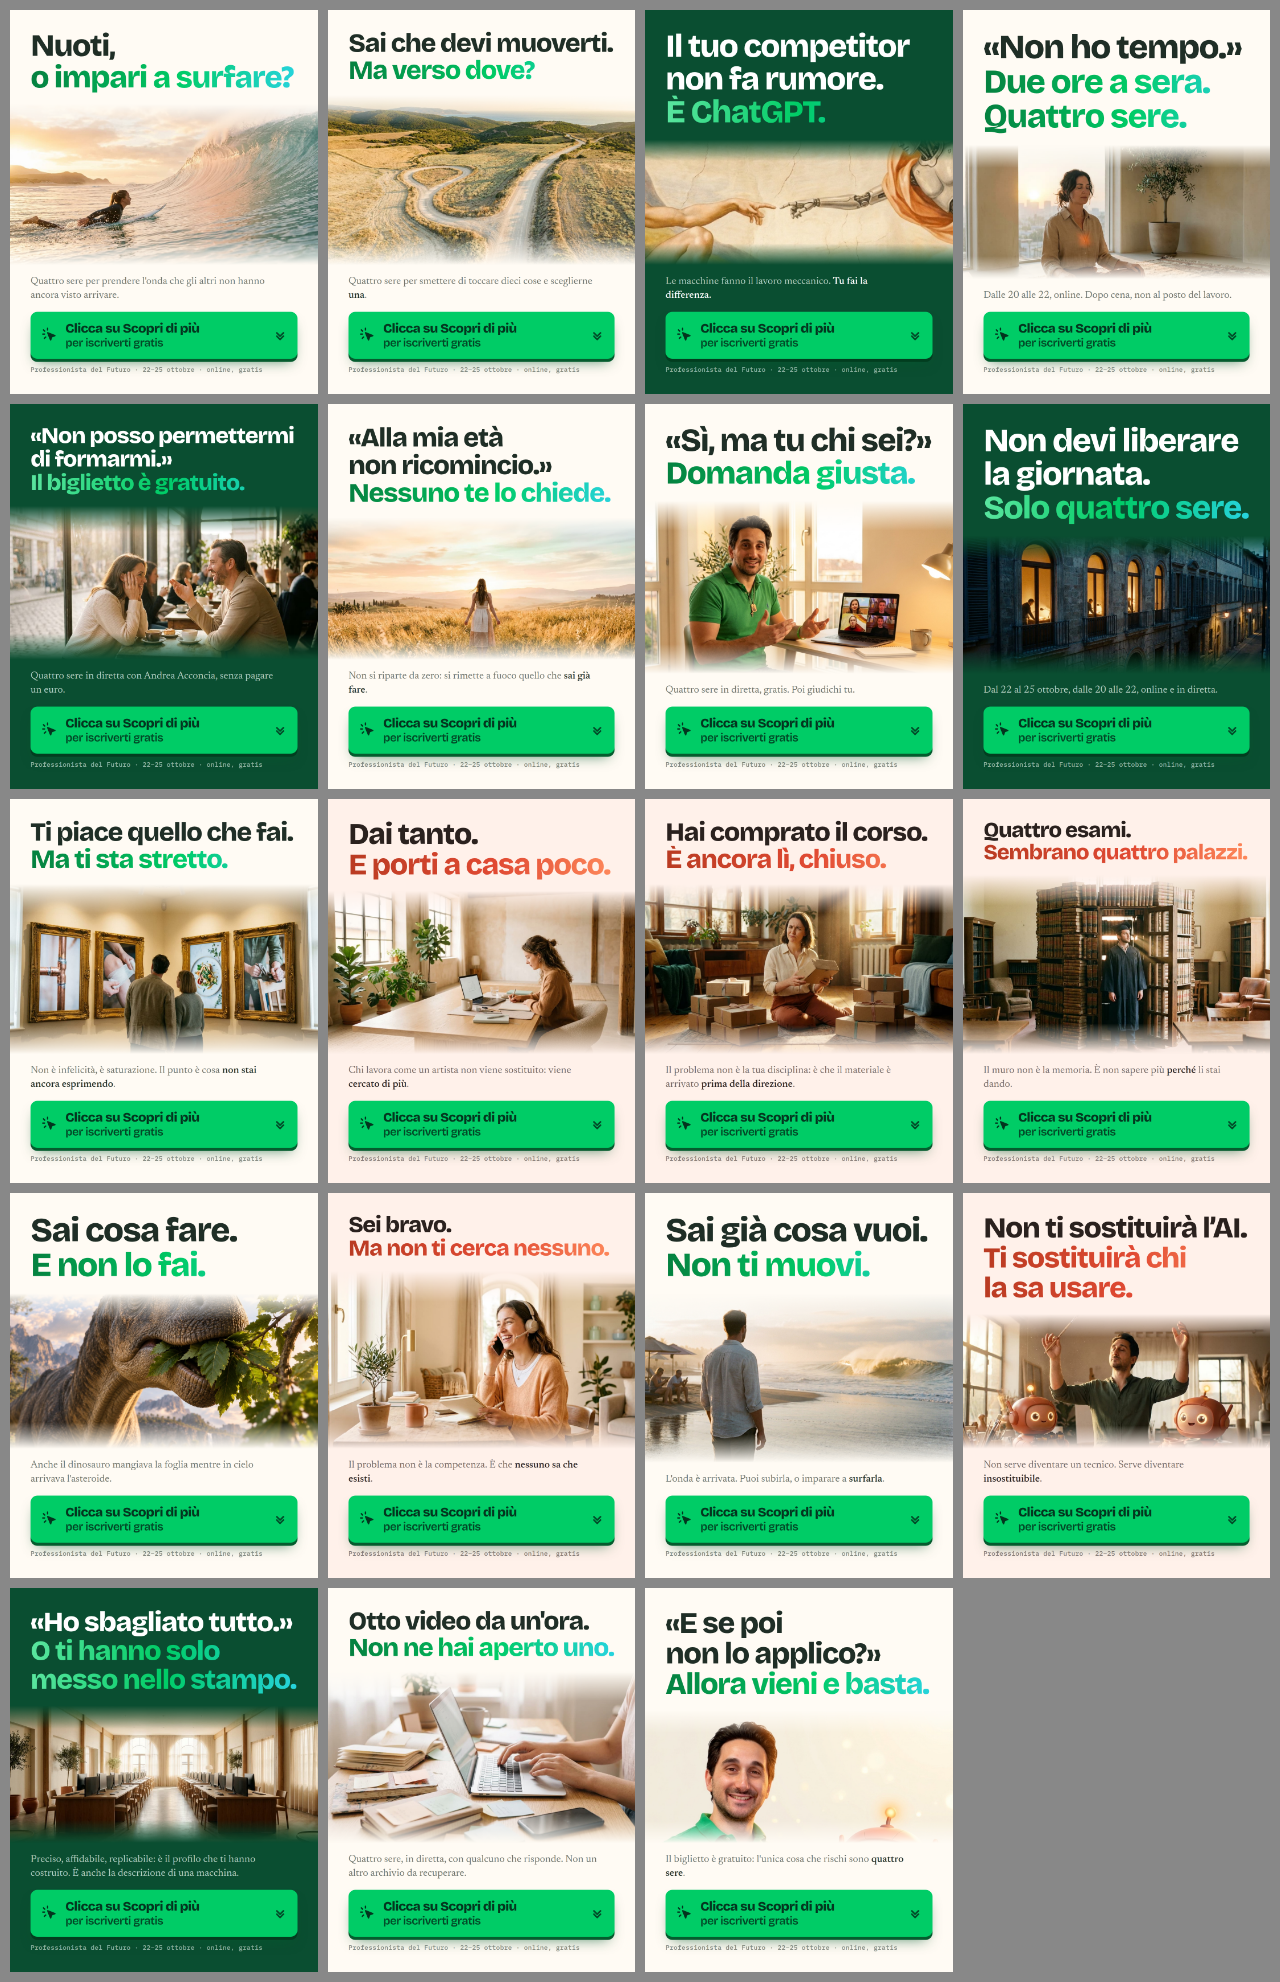
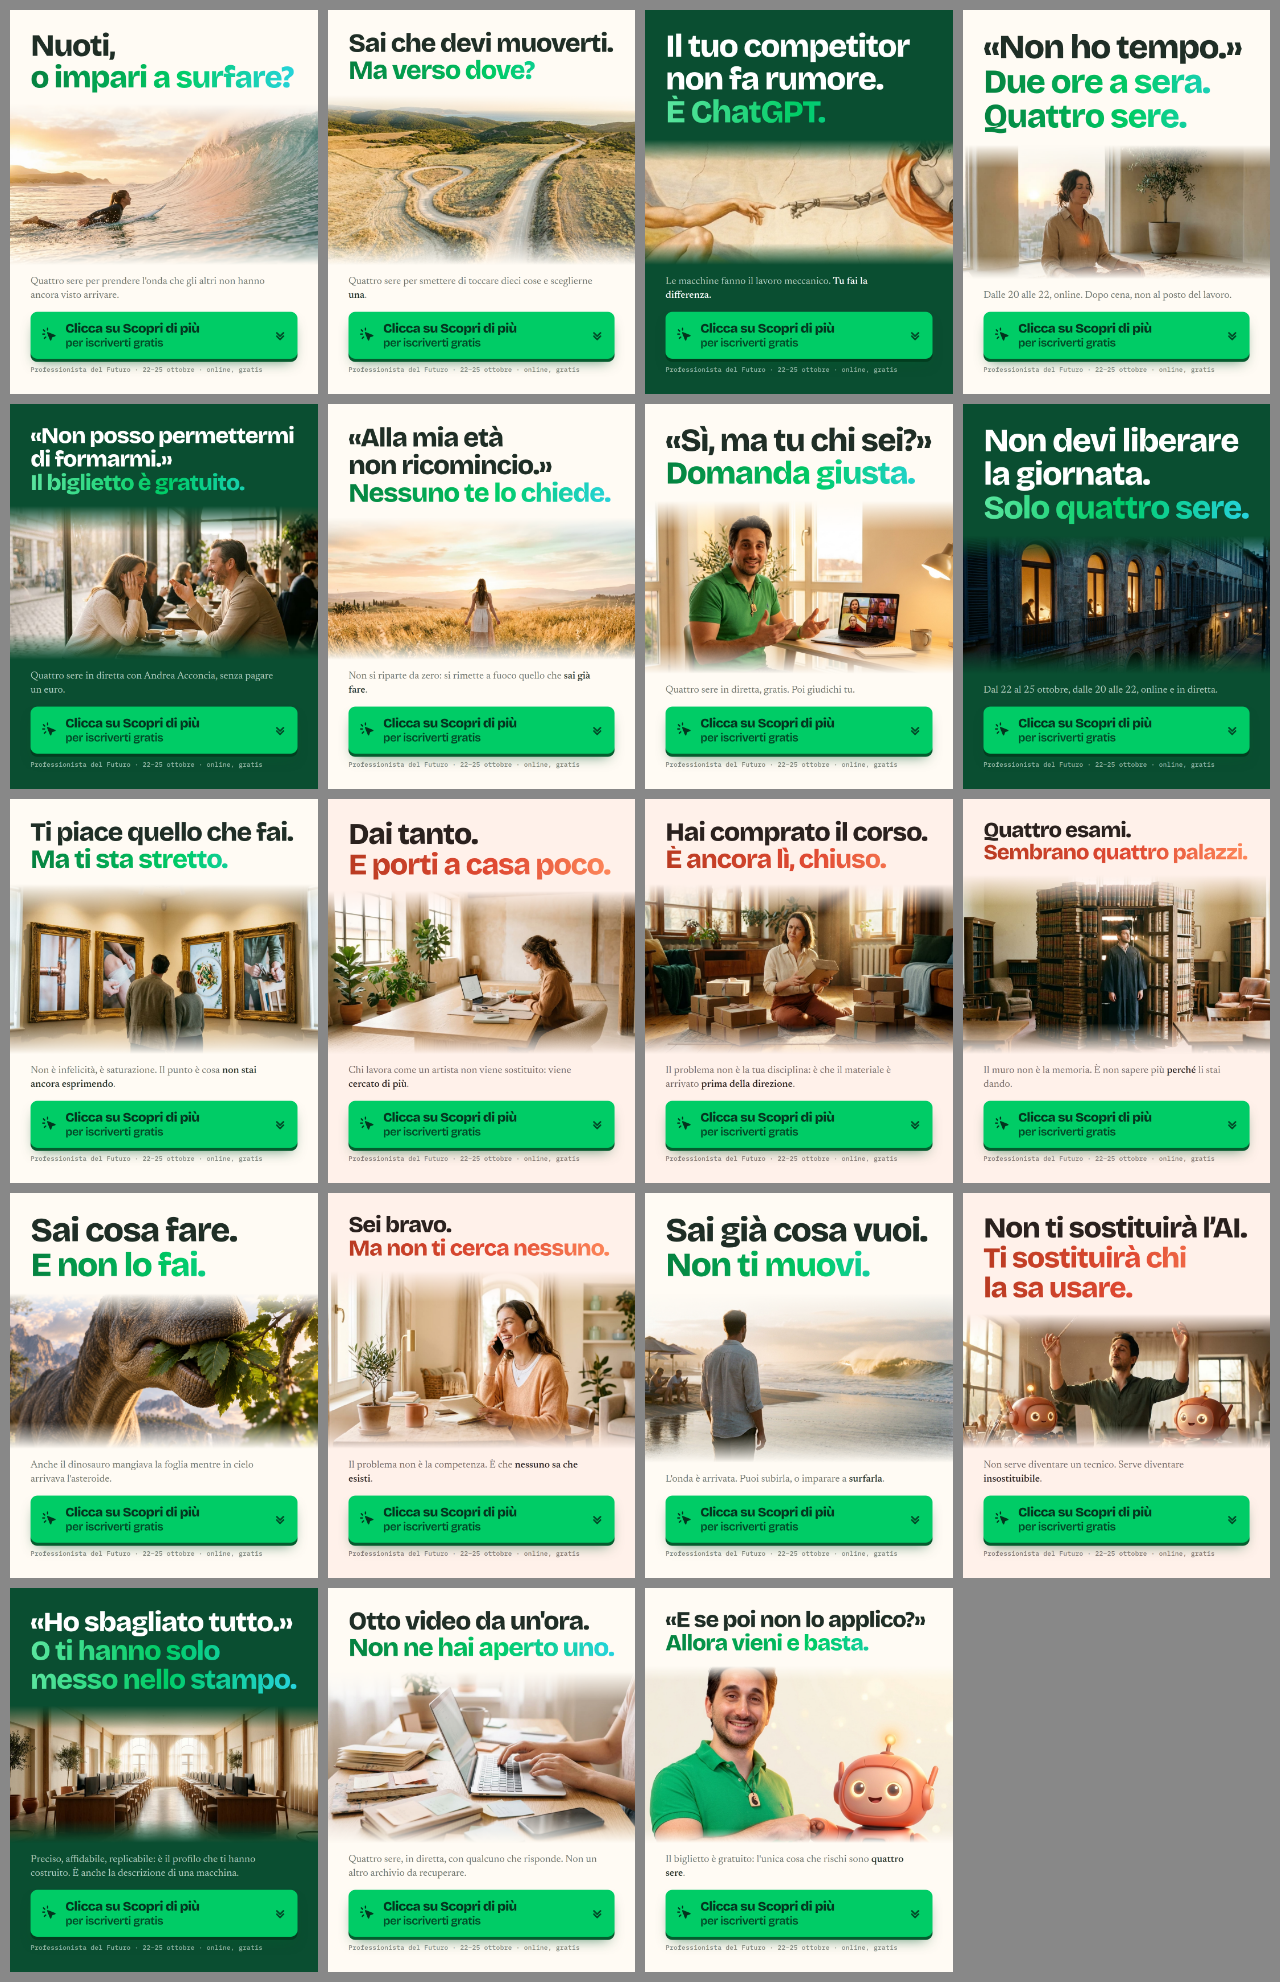
p19: si vede la scena, non solo il volto
L'originale del pugnetto al robot è quadrato e la scena corre in diagonale:
nella fascia 2,2:1 delle serie divise ci stava solo la faccia. Ora su quel
creativo la fascia si alza (picTarget 690), l'hook passa a due righe con
headSplit, la dissolvenza si stringe a 8% e l'inquadratura scende sul pugno.
Nella serie A la foto sale al 61% e rientra tutta la testa.

Nuove chiavi per correggere una singola scena senza toccare le altre:
headSplit, picMin, picTarget, picFade.

Claude-Session: https://claude.ai/code/session_011n96Cod1T52G2mX253xFTh

Changed region(s): [[0.5, 0.8002, 0.75, 0.9541]]

diff --git a/src/workshop/template.js b/src/workshop/template.js
@@ -152,6 +152,9 @@ ${ctaMarkup(brand, o.bigCta)}
 // ---------- hook in alto, foto a fascia nel mezzo, soluzione e CTA sotto ----------
 function splitLayout(ad, brand, t, o) {
   const focus = ad.focusSplit || ad.focus || '50% 45%';
+  // quanto la fascia si dissolve nel fondo ai due estremi: si stringe quando
+  // il soggetto arriva fino al bordo e non deve sbiadire
+  const fade = ad.picFade || 17;
   return {
     css: `
 .in{position:absolute;inset:0;z-index:2;display:flex;flex-direction:column;padding:70px 72px 72px}
@@ -161,7 +164,7 @@ function splitLayout(ad, brand, t, o) {
   object-position:${focus};transform:scale(${ad.zoomSplit || ad.zoom || 1});transform-origin:${focus}}
 /* la fascia si dissolve nel fondo sopra e sotto: nessun taglio netto */
 .pic:after{content:'';position:absolute;inset:0;background:linear-gradient(to bottom,
-  ${t.base} 0%,rgba(${t.rgb},0) 17%,rgba(${t.rgb},0) 83%,${t.base} 100%)}
+  ${t.base} 0%,rgba(${t.rgb},0) ${fade}%,rgba(${t.rgb},0) ${100 - fade}%,${t.base} 100%)}
 .sub{margin-top:34px;flex:0 0 auto}
 .bottom{margin-top:32px;flex:0 0 auto}`,
     body: `
@@ -180,7 +183,7 @@ function html(ad, brand, opts) {
   const o = typeof opts === 'string' ? { layout: opts } : (opts || {});
   const t = THEME[ad.theme] || THEME.cream;
   const L = o.layout === 'split' ? splitLayout(ad, brand, t, o) : bottomLayout(ad, brand, t, o);
-  const lines = ad.head
+  const lines = (o.layout === 'split' && ad.headSplit ? ad.headSplit : ad.head)
     .map((l) => (typeof l === 'string'
       ? `<span class="ln">${esc(l)}</span>`
       : `<span class="ln hi">${esc(l.hi)}</span>`))
@@ -201,6 +204,8 @@ ${L.css}
 
 <script>
 var SPLIT = ${o.layout === 'split'};
+var PIC_MIN = ${ad.picMin || (o.bigCta ? 290 : 350)};
+var PIC_TARGET = ${ad.picTarget || (o.bigCta ? 380 : 440)};
 function fit() {
   var h = document.getElementById('hook');
   var sub = document.getElementById('sub');
@@ -213,10 +218,10 @@ function fit() {
   // nel 'split' il vincolo è la fascia della foto, che non deve schiacciarsi;
   // nel 'bottom' è la tela, che non deve sforare.
   var tooBig = SPLIT
-    ? function () { return wide() || pic.clientHeight < ${o.bigCta ? 290 : 350}; }
+    ? function () { return wide() || pic.clientHeight < PIC_MIN; }
     : function () { return wide() || box.scrollHeight > box.clientHeight; };
   var roomy = SPLIT
-    ? function () { return !wide() && pic.clientHeight > ${o.bigCta ? 380 : 440}; }
+    ? function () { return !wide() && pic.clientHeight > PIC_TARGET; }
     : function () { return !tooBig(); };
 
   var s = parseFloat(getComputedStyle(h).fontSize);

diff --git a/README.md b/README.md
@@ -118,8 +118,21 @@ variabili che vale la pena mettere in test a parità di copy.
   test deve misurare.
 
 `layout` non sta in `ads.json`: ogni creativo viene renderizzato in tutte le
-versioni. `focusSplit` e `zoomSplit` correggono l'inquadratura solo nella
-fascia stretta delle serie B, C e D, dove le teste in cima si tagliano.
+versioni. Queste chiavi correggono una singola scena senza toccare le altre:
+
+| chiave | effetto |
+|---|---|
+| `focusSplit`, `zoomSplit` | inquadratura nella sola fascia delle serie B, C, D |
+| `headSplit` | un hook più corto solo nelle serie divise, per lasciare aria alla foto |
+| `picMin`, `picTarget` | quanto può stringersi e quanto deve essere alta la fascia |
+| `picFade` | quanto la fascia si dissolve ai due estremi (default 17%) |
+| `stampPos` | angolo del timbro nella serie C |
+
+Servono soprattutto per gli originali **quadrati**, come `10-elemento-umano`
+(il pugnetto al robot): la scena corre in diagonale, in una fascia 2,2:1 non ci
+sta, e senza correzione resta inquadrato solo il volto. Su `p19` si alza la
+fascia (`picTarget` 690), si accorcia l'hook a due righe e si stringe la
+dissolvenza, così uomo, pugno e robot entrano tutti.
 
 Niente citazioni, elenchi, chip, prezzi o URL nell'immagine: quella roba sta
 nella pagina, che è a un tap di distanza. Il richiamo alla sales passa dalla
